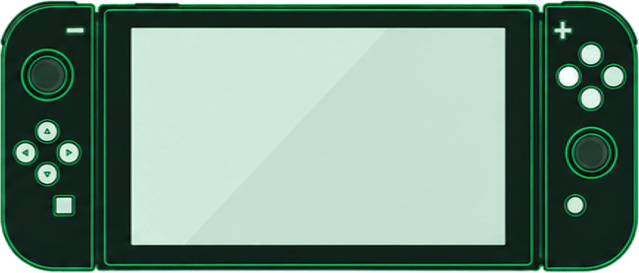
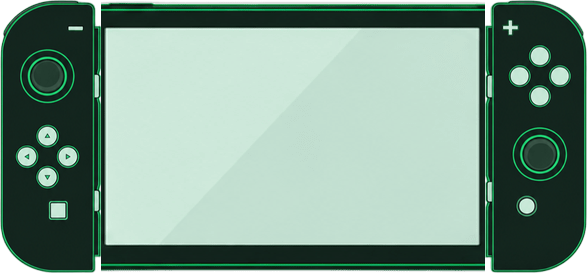
hillclimb: fix the second shop crash; handheld guide uses vertical Joy-Cons
Quirk 1 stops the shop product vector being populated from a billing
backend that isn't here, but a second site further into the same builder
still walks that empty vector and virtual-calls through what it finds:

  ldr x10,[x19,#1664] / ldr x9,[x19,#1656]   ; end, begin
  sub / asr #3 / sub #1                      ; (count - 1)
  cmp x10,x8 / b.cs                          ; UNSIGNED bounds check
  ldr x0,[x8]      0x22c020                  ; element pointer
  ldr x8,[x0]      0x22c024                  ; vtable load — x0 is null
  ldr x8,[x8,#728] / blr x8

Empty vector means count-1 underflows to 0xFFFF…, the unsigned compare
passes, and it reads past the end. Hardware logs show exactly that:
far=0x0 at +0x22c024, ending a session after ~190s.

Branched over rather than guarded, since the whole block is shop-item work
that can't succeed without a backend. Signature-gated against the same
libgame.so as the other two quirks and verified byte-for-byte against it.

The handheld controller diagram is now the console and screen flanked by
the vertical Joy-Con renders, scaled to the console height, rather than the
flatter Joy-Cons drawn into the source sheet.

Changed region(s): [[0.0, 0.0, 1.0, 1.0], [0.9506, 0.9084, 0.9813, 0.967]]

diff --git a/source/compat/games/game_hillclimb.cpp b/source/compat/games/game_hillclimb.cpp
@@ -62,6 +62,40 @@ void patchSkinLookupGuard(uint8_t* base, uint64_t min_vaddr, size_t alloc_size) 
               "(cbz x0 → +0x31358c; racing no longer crashes on a missing skin)");
 }
 
+// Quirk 3 — second Shop crash, further into the same builder.
+// Quirk 1 stops the product vector being populated from a store backend that
+// isn't there, but this site still walks that (now empty) vector and calls a
+// virtual method on whatever it finds:
+//   ldr x10,[x19,#1664] / ldr x9,[x19,#1656]   ; end, begin
+//   sub/asr #3/sub #1                          ; (count - 1)
+//   cmp x10,x8 / b.cs                          ; UNSIGNED bounds check
+//   ldr x0,[x8]   (0x22c020)                   ; element pointer
+//   ldr x8,[x0]   (0x22c024)                   ; ← vtable load, x0 is null
+//   ldr x8,[x8,#728] / blr x8                  ; virtual call
+// With the vector empty, count-1 underflows to 0xFFFF…, so the unsigned
+// compare passes and it reads past the end — hardware logs show exactly this,
+// far=0x0 at +0x22c024 killing a session after a few minutes.
+//
+// The whole block is shop-item work that cannot succeed without a billing
+// backend, so it's branched over rather than guarded: turning 0x22c020 into
+// `b +0x14` skips the load, the vtable read and the call, landing on the
+// instruction that follows them.
+void patchShopItemVirtualCall(uint8_t* base, uint64_t min_vaddr, size_t alloc_size) {
+    constexpr uint64_t site = 0x22c020;
+    if (!inRange(site, min_vaddr, alloc_size)) return;
+    uint32_t* at = (uint32_t*)(base + site);
+    if (at[ 0] != 0xf9400100u ||   // ldr x0, [x8]
+        at[ 1] != 0xf9400008u ||   // ldr x8, [x0]      ← the crashing load
+        at[ 2] != 0x52800021u ||   // mov w1, #1
+        at[ 3] != 0xf9416d08u ||   // ldr x8, [x8, #728]
+        at[ 4] != 0xd63f0100u) {   // blr x8
+        return;
+    }
+    at[0] = 0x14000005u;           // b #+0x14 → 0x22c034, past the call
+    compatLog("quirk[HCR]: skipped empty-shop virtual call at +0x22c020 "
+              "(null vtable deref at +0x22c024; shop stays empty instead of crashing)");
+}
+
 }  // namespace
 
 // ─── Registry entry points ──────────────────────────────────────────────────
@@ -75,6 +109,7 @@ void gameApplyQuirks(const char* pkg, const char* soname,
     if (isHcr && soname && strcmp(soname, kSoName) == 0) {
         patchShopPopulate(stage_base, min_vaddr, alloc_size);
         patchSkinLookupGuard(stage_base, min_vaddr, alloc_size);
+        patchShopItemVirtualCall(stage_base, min_vaddr, alloc_size);
     }
 }
 
